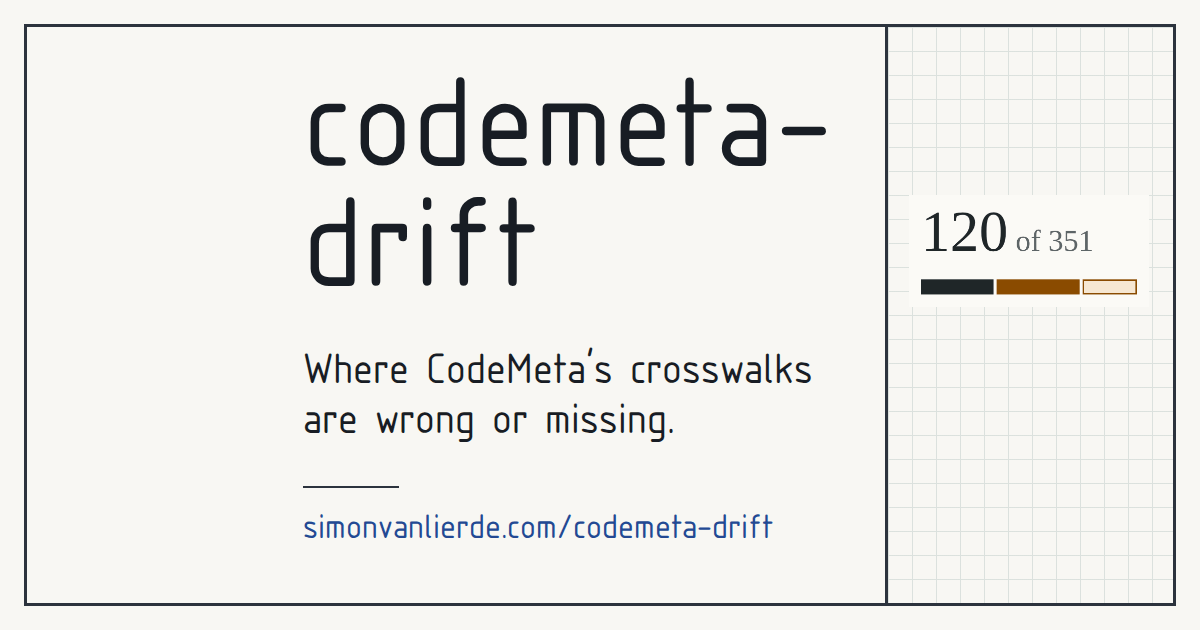
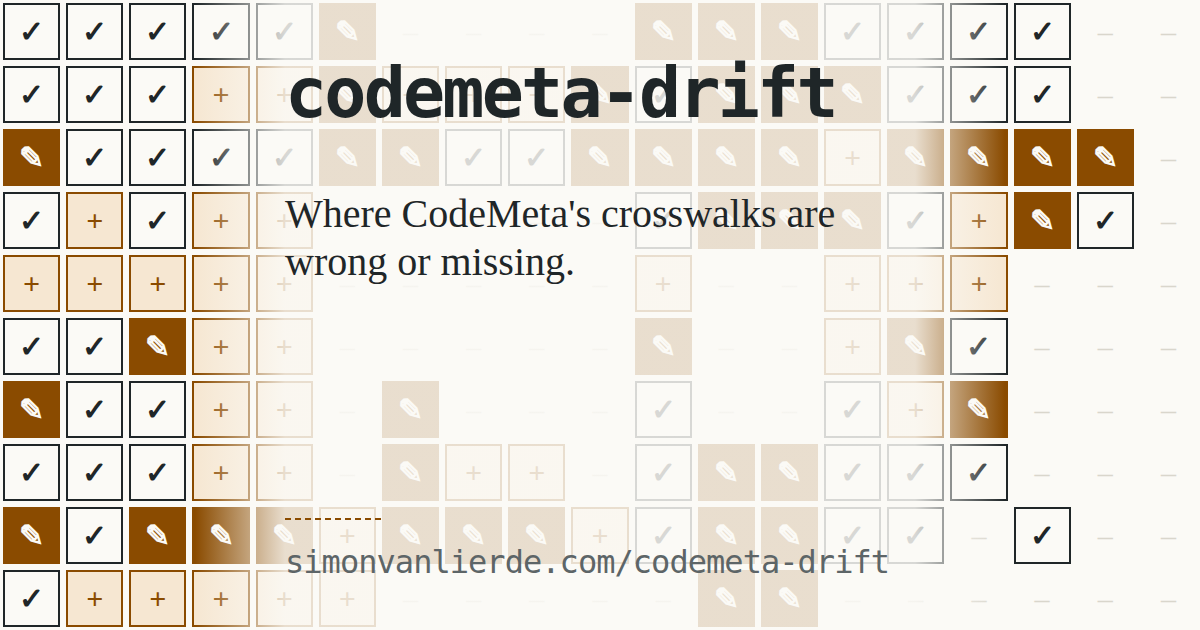
feat(site): draw the social card as the coverage matrix
Links to the coverage page showed no image. The card draws the page's CodeMeta 4.0 matrix at full size, ten formats by 19 terms, with the wrong crosswalk cells filled in ochre and the missing ones outlined. Cells come from codemeta_drift.coverage on examples/mapping-4.0.json.

- add docs/og-card.html as the source and a just og-card recipe to render it
- replace the generator-based Social card section in the README
- drop site/og-visual.png, which nothing else used
- describe the new card in og:image:alt

diff --git a/docs/og-card.html b/docs/og-card.html
@@ -1,0 +1,49 @@
+<!doctype html>
+<html lang="en">
+<head>
+<meta charset="utf-8">
+<title>codemeta-drift social card</title>
+<!-- Source of site/og.png. Render: see README.md, "Social card". -->
+<style>
+  :root {
+    --paper: #fbfaf6; --ink: #1f2628; --faint: #5d6567; --rule: #d9d6cc; --ochre: #8a4b00; --ochre-wash: #f6e7d2;
+    --serif: Charter, "Bitstream Charter", "Sitka Text", Cambria, "Iowan Old Style", Georgia, serif;
+    --mono: ui-monospace, "Cascadia Code", "Source Code Pro", Menlo, Consolas, "DejaVu Sans Mono", monospace;
+  }
+  * { box-sizing: border-box; margin: 0; }
+  html, body { width: 1200px; height: 630px; overflow: hidden; background: var(--paper); color: var(--ink); }
+  /* The coverage matrix at full size: 19 CodeMeta terms across, 10 formats down, one cell each. */
+  #m { position: absolute; inset: 0; display: grid; grid-template-columns: repeat(19, 1fr); grid-template-rows: repeat(10, 1fr); }
+  .c { margin: 3px; display: grid; place-items: center; font: 700 30px/1 var(--serif); }
+  .o { border: 2px solid var(--ink); color: var(--ink); }
+  .x { background: var(--ochre); color: var(--paper); }
+  .p { background: var(--ochre-wash); border: 2px solid var(--ochre); color: var(--ochre); }
+  .n { color: var(--rule); font-weight: 400; }
+  /* A quiet field under the text; the matrix shows through it. Everything that carries meaning sits in the centred 630 px column. */
+  main { position: absolute; z-index: 1; isolation: isolate; left: 285px; top: 0; width: 630px; height: 630px; }
+  main::before { content: ""; position: absolute; inset: 0 -90px; z-index: -1;
+    background: linear-gradient(90deg, #fbfaf600, #fbfaf6d6 90px calc(100% - 90px), #fbfaf600); }
+  h1 { position: absolute; top: 58px; font: 700 70px/1 var(--mono); letter-spacing: -0.04em; }
+  .job { position: absolute; top: 190px; font: 400 40px/1.2 var(--serif); width: 600px; }
+  .url { position: absolute; bottom: 52px; font: 400 32px/1 var(--mono); color: var(--faint); letter-spacing: -0.03em; }
+  .url::before { content: ""; display: block; width: 96px; border-top: 2px dashed var(--ochre); margin-bottom: 26px; }
+</style>
+</head>
+<body>
+<!-- Cells are CodeMeta 4.0's crosswalk status for CFF, Zenodo, DataCite, BibTeX, pyproject.toml, PKG-INFO, Cargo, npm,
+     R DESCRIPTION and Julia (rows) by the 19 terms of the page's matrix, from codemeta_drift.coverage on
+     examples/mapping-4.0.json. o = works as written, x = wrong, p = missing, - = no field. -->
+<div id="m"></div>
+<main>
+  <h1>codemeta-drift</h1>
+  <p class="job">Where CodeMeta's crosswalks are wrong or missing.</p>
+  <p class="url">simonvanlierde.com/codemeta-drift</p>
+</main>
+<script>
+  const rows = ["ooooox----xxxoooo--", "oooppxpppxoxxxooo--", "xooooxxooxxxxpxxxx-", "opopp-----oxxxopxo-", "ppppp-----p--ppp---",
+    "ooxpp-----x--pxo---", "xoopp-x---o--opx---", "ooopp-xpp-oxxooo---", "xoxxxpxxxpoxxoo-o--", "oppppp-----xx------"];
+  const mark = { o: "✓", x: "✎", p: "+", "-": "–" };
+  document.getElementById("m").innerHTML = rows.join("").split("").map((s) => `<div class="c ${s === "-" ? "n" : s}">${mark[s]}</div>`).join("");
+</script>
+</body>
+</html>

diff --git a/site/index.html b/site/index.html
@@ -16,7 +16,7 @@
 <meta property="og:image" content="https://simonvanlierde.com/codemeta-drift/og.png">
 <meta property="og:image:width" content="1200">
 <meta property="og:image:height" content="630">
-<meta property="og:image:alt" content="codemeta-drift: where CodeMeta's crosswalks are wrong or missing. simonvanlierde.com/codemeta-drift">
+<meta property="og:image:alt" content="codemeta-drift: where CodeMeta's crosswalks are wrong or missing. A grid of CodeMeta crosswalk cells for ten formats, the wrong ones filled in ochre and the missing ones outlined. simonvanlierde.com/codemeta-drift">
 <meta name="twitter:card" content="summary_large_image">
 <meta name="theme-color" content="#fbfaf6" media="(prefers-color-scheme: light)">
 <meta name="theme-color" content="#181a17" media="(prefers-color-scheme: dark)">

diff --git a/README.md b/README.md
@@ -101,16 +101,15 @@ also checks citesync's mapping pin. Publishing requires a configured token.
 
 ## Social card
 
-[`site/og.png`](site/og.png) is the 1200x630 card shown when the link is shared. It is made with the generator in
-[my site repo](https://github.com/simonvanlierde/simonvanlierde.github.io/tree/main/scripts/social-card)
-(needs Docker). The visual is the page's headline figure, "120 of 351" with its coverage bar, captured from the live page at 3x and cropped tight. `site/build.py` copies the card into the built page; the tags are in `site/index.html`. From a checkout of
-that repo, with this repo next to it:
+[`site/og.png`](site/og.png) is the 1200x630 card shown when the link is shared. It is rendered from
+[`docs/og-card.html`](docs/og-card.html), which draws the page's coverage matrix for CodeMeta 4.0 at full size: ten
+formats by 19 terms, with the wrong crosswalk cells filled and the missing ones outlined. Edit the HTML, then run:
 
 ```sh
-pnpm gen:card --visual ../codemeta-drift/site/og-visual.png --name "codemeta-drift" \
-  --line "Where CodeMeta's crosswalks are wrong or missing." \
-  --domain simonvanlierde.com/codemeta-drift --out ../codemeta-drift/site/og.png --fit contain
+just og-card
 ```
+
+`site/build.py` copies the card into the built page; the tags are in `site/index.html`.
 
 ## Development
 
